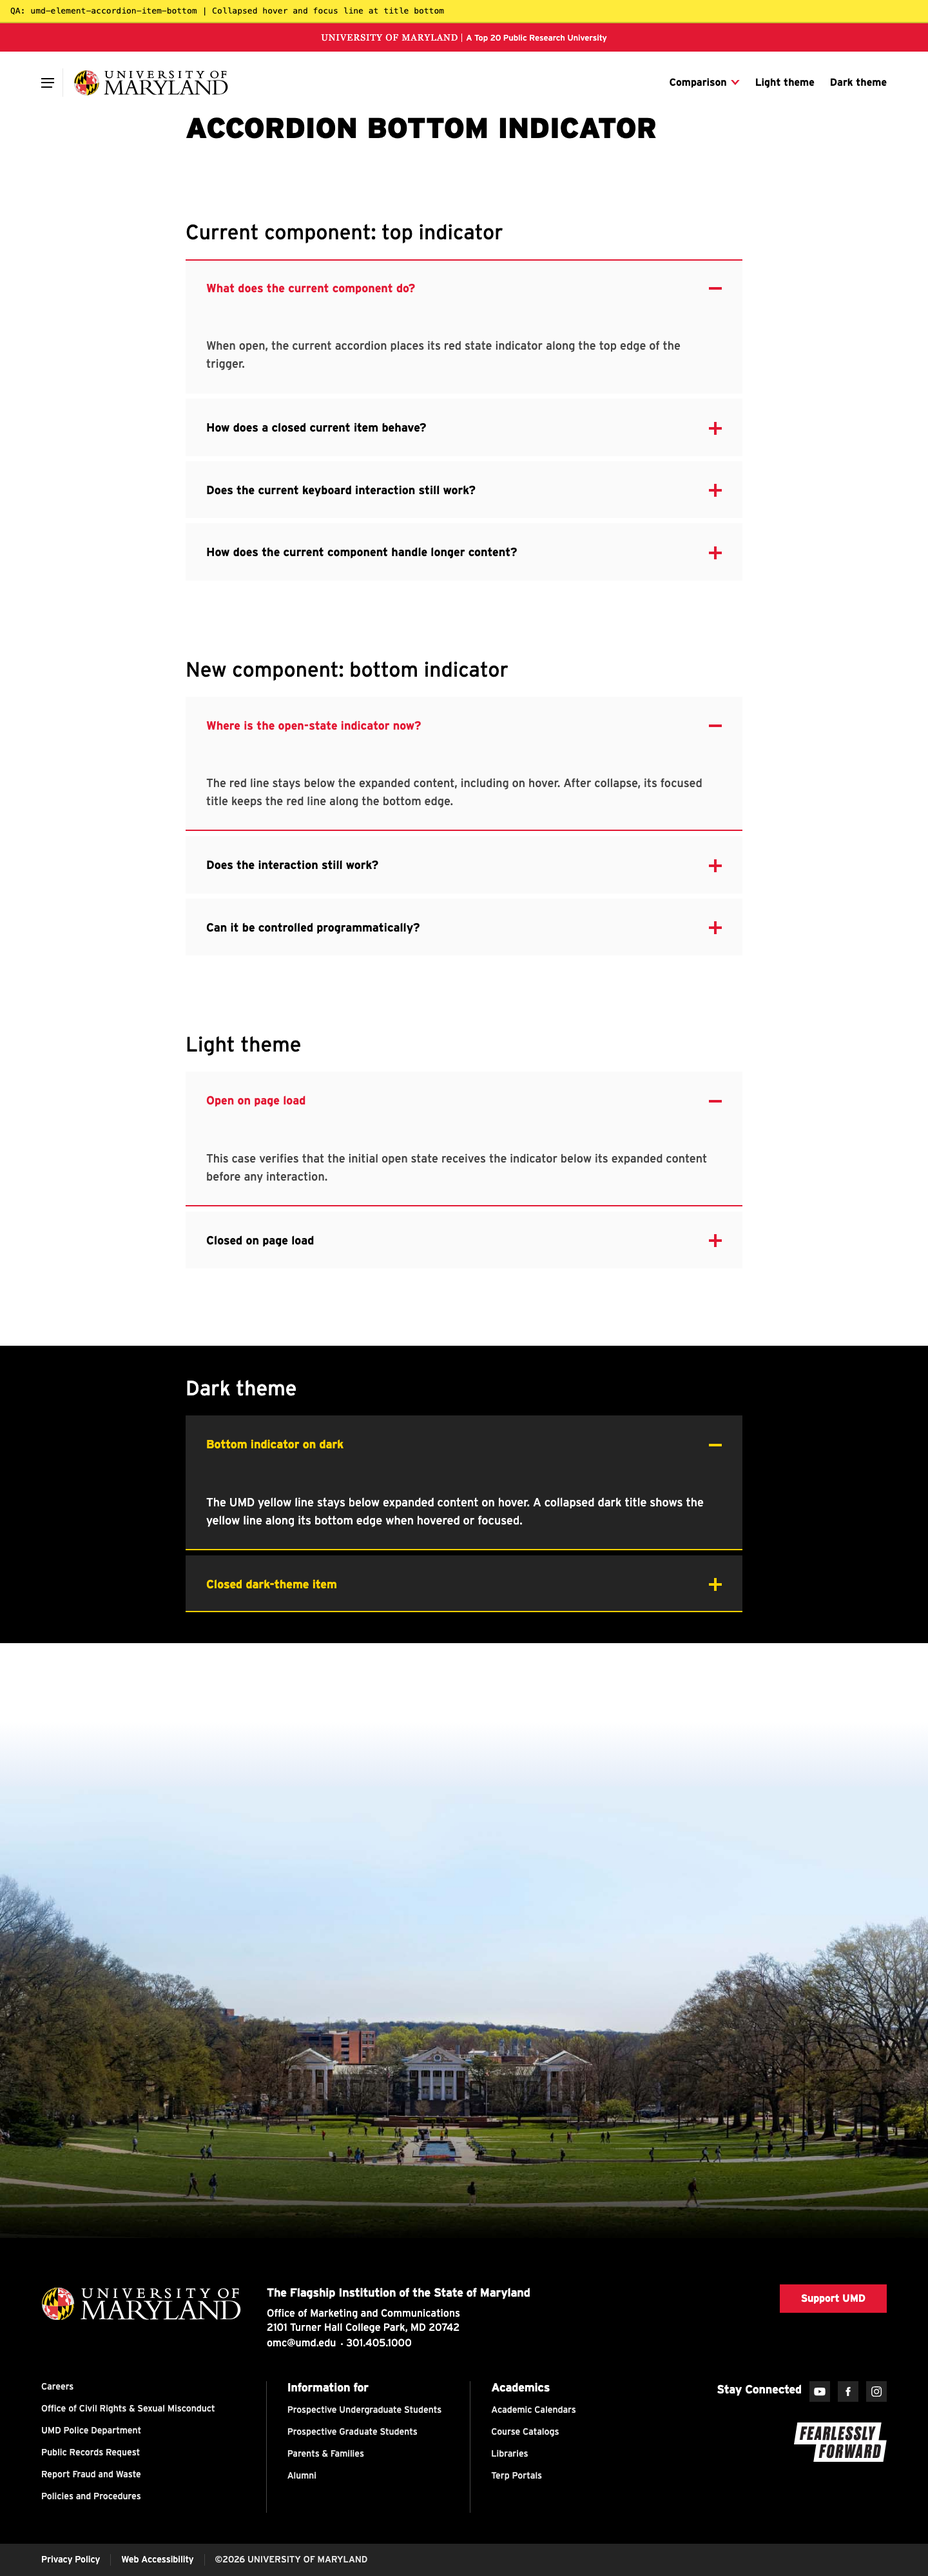
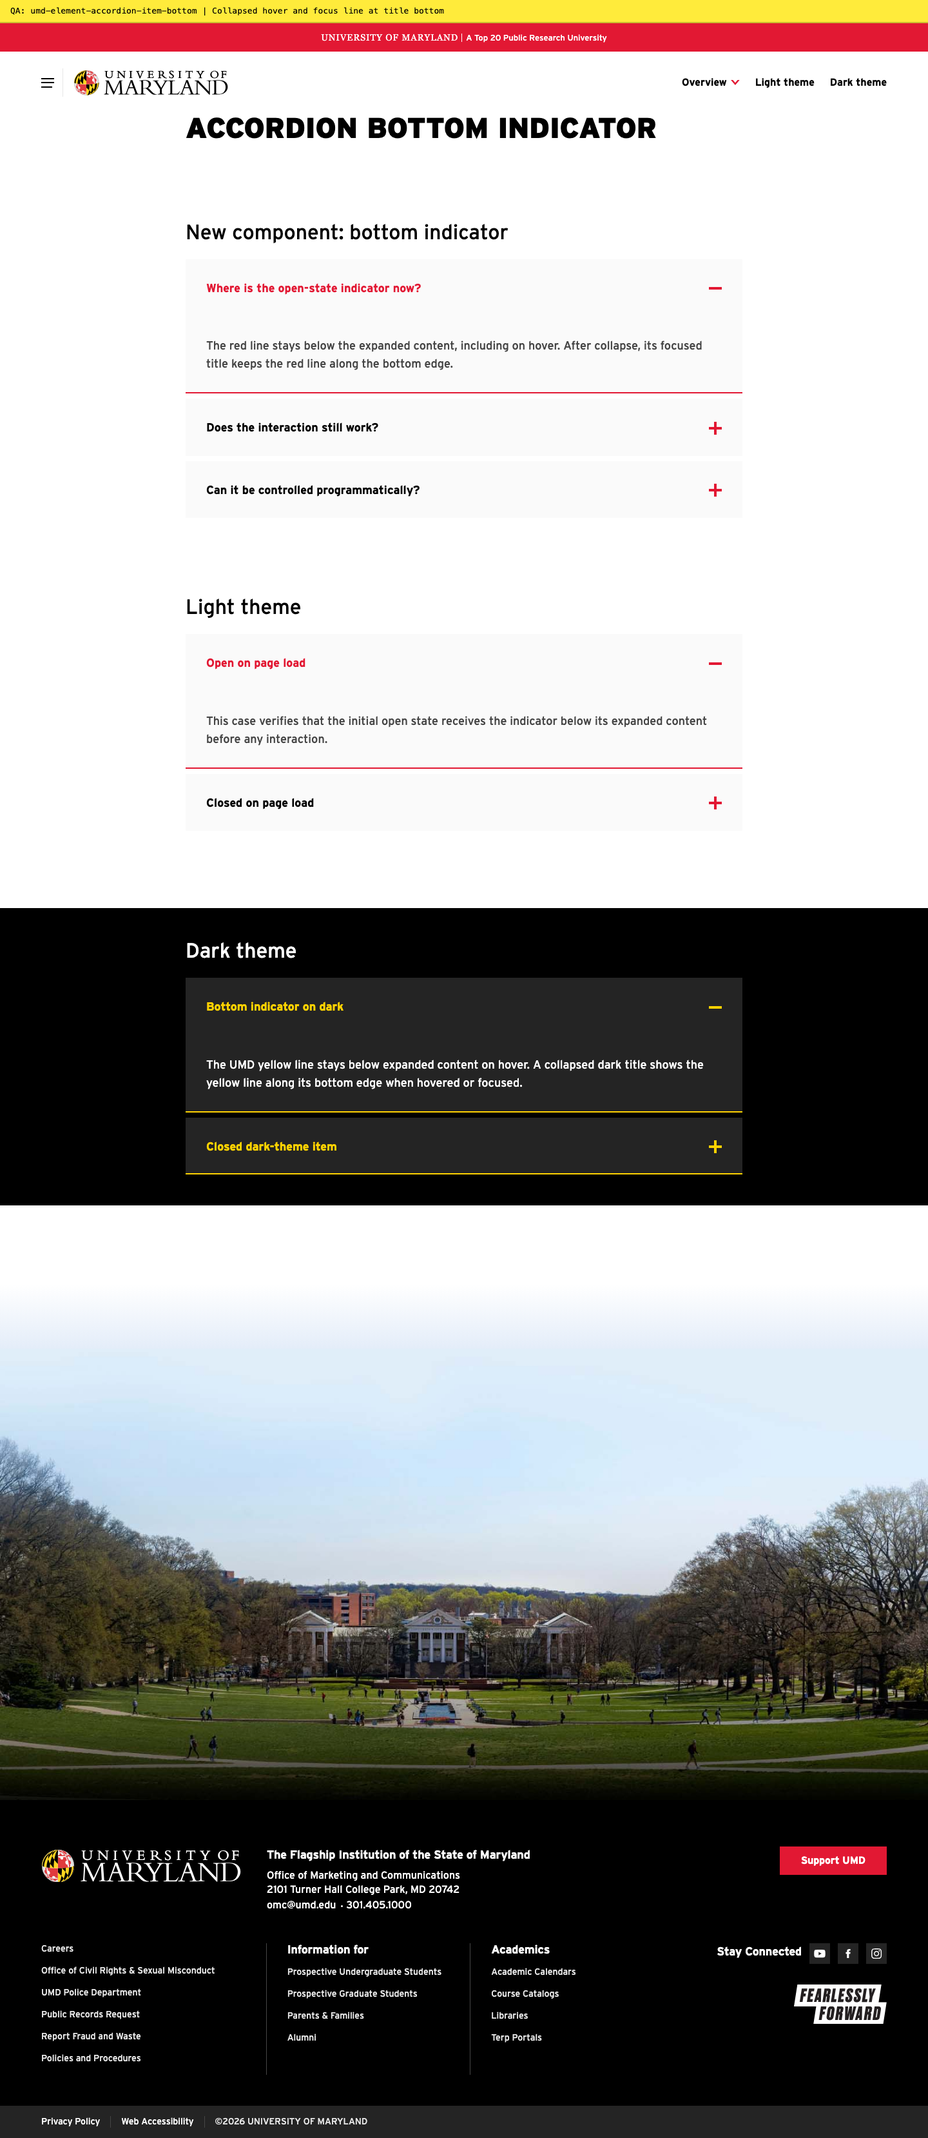
Remove top-indicator comparison section

diff --git a/qa/accordion-bottom.html b/qa/accordion-bottom.html
@@ -538,12 +538,6 @@
       color: #000000;
     }
   </style>
-  <style>
-    #current .current-accordion-list > umd-element-accordion-item {
-      margin-top: 0;
-    }
-  </style>
-
   <script>window.process = { env: {} };</script>
   <script src="../public/umd-components.js"></script>
   <script type="module" src="../src/accordion-bottom.js?v=collapsed-focus-1"></script>
@@ -562,9 +556,8 @@
     </a>
     <nav slot="main-navigation">
       <umd-element-nav-item>
-        <a slot="primary-link" href="#comparison">Comparison</a>
+        <a slot="primary-link" href="#comparison">Overview</a>
         <div slot="dropdown-links">
-          <a href="#current">Current component</a>
           <a href="#new">Bottom-indicator component</a>
         </div>
       </umd-element-nav-item>
@@ -576,7 +569,7 @@
       </umd-element-nav-item>
     </nav>
     <div slot="primary-slide-links">
-      <a href="#comparison"><span>Comparison</span></a>
+      <a href="#comparison"><span>Overview</span></a>
       <a href="#light-theme"><span>Light theme</span></a>
       <a href="#dark-theme"><span>Dark theme</span></a>
     </div>
@@ -592,39 +585,6 @@
             <p>The open-state indicator stays below expanded content with no additional hover line. Collapsed titles show the indicator along their bottom edge on hover and focus.</p>
           </div>
         </umd-element-section-intro-wide>
-      </div>
-    </section>
-
-    <section id="current" class="umd-layout-vertical-landing">
-      <div class="umd-layout-space-horizontal-small">
-        <h2 class="umd-sans-extralarge">Current component: top indicator</h2>
-        <div class="current-accordion-list" style="display:flex;flex-direction:column;gap:8px;margin-top:24px;">
-          <umd-element-accordion-item data-visual-open="true">
-            <p slot="headline">What does the current component do?</p>
-            <div slot="text">
-              <p>When open, the current accordion places its red state indicator along the top edge of the trigger.</p>
-            </div>
-          </umd-element-accordion-item>
-          <umd-element-accordion-item>
-            <p slot="headline">How does a closed current item behave?</p>
-            <div slot="text">
-              <p>This item starts closed so reviewers can compare its hover, focus, and expand interactions with the new component.</p>
-            </div>
-          </umd-element-accordion-item>
-          <umd-element-accordion-item>
-            <p slot="headline">Does the current keyboard interaction still work?</p>
-            <div slot="text">
-              <p>Use Tab to focus this title, then press Enter or Space to verify the current accordion keyboard behavior and focus treatment.</p>
-            </div>
-          </umd-element-accordion-item>
-          <umd-element-accordion-item>
-            <p slot="headline">How does the current component handle longer content?</p>
-            <div slot="text">
-              <p>This review case includes more body copy to make the current component's spacing and disclosure animation easier to compare.</p>
-              <p>The additional paragraph also shows how multiple content blocks flow inside the existing accordion body.</p>
-            </div>
-          </umd-element-accordion-item>
-        </div>
       </div>
     </section>
 

diff --git a/test/accordion-bottom.test.js b/test/accordion-bottom.test.js
@@ -49,20 +49,13 @@ test('shows the title-bottom hover and focus indicator when collapsed', () => {
   );
 });
 
-test('QA page includes current and new accordion comparisons', () => {
-  assert.match(qaPage, /Current component: top indicator/);
+test('QA page includes only bottom-indicator accordion examples', () => {
+  assert.doesNotMatch(qaPage, /Current component: top indicator/);
   assert.match(qaPage, /New component: bottom indicator/);
   assert.match(qaPage, /<umd-element-accordion-item-bottom/);
   assert.equal(
     (qaPage.match(/<umd-element-accordion-item(?:\s|>)/g) ?? []).length,
-    4,
+    0,
   );
-  assert.match(
-    qaPage,
-    /id="current"[\s\S]*?class="current-accordion-list"[^>]*display:flex;flex-direction:column;gap:8px/,
-  );
-  assert.match(
-    qaPage,
-    /#current \.current-accordion-list > umd-element-accordion-item \{\s*margin-top: 0;/,
-  );
+  assert.doesNotMatch(qaPage, /href="#current"/);
 });

diff --git a/README.md b/README.md
@@ -15,9 +15,8 @@ below the expanded content.
 npm start
 ```
 
-Open <http://127.0.0.1:8010/>. The page compares the current component with the
-new variant and includes light, dark, initially open, and initially closed
-cases.
+Open <http://127.0.0.1:8010/>. The page demonstrates the bottom-indicator
+variant with light, dark, initially open, and initially closed cases.
 
 ## Usage
 
